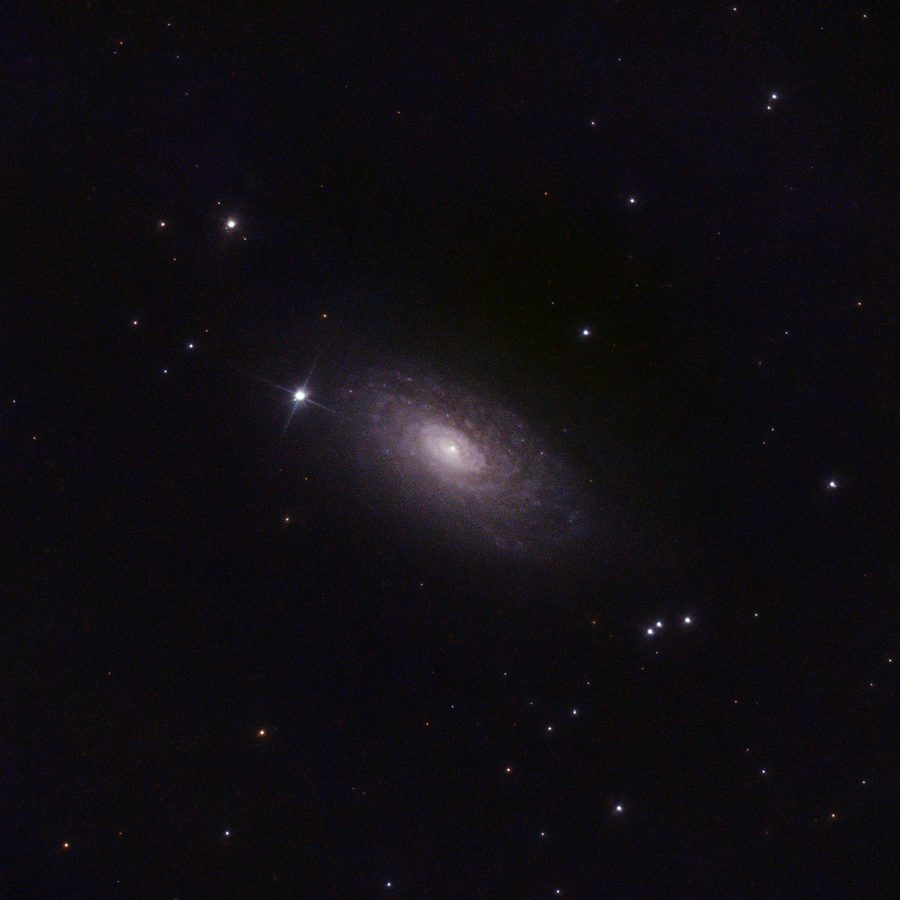
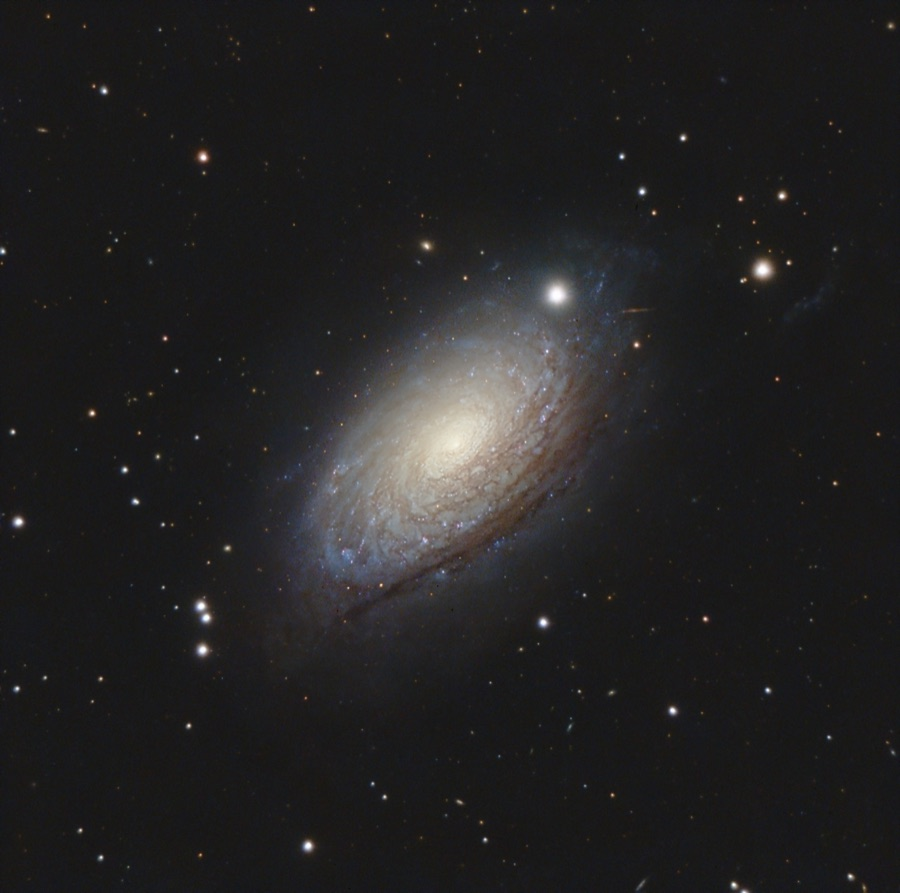
Update astrophotography gallery

diff --git a/astro.html b/astro.html
@@ -473,6 +473,22 @@ Constellation: Canes Venatici`,
   },
 
   {
+    title: "Splinter Galaxy: NGC5906/NGC5907",
+    category: "Galaxy",
+    src: "./astro/NGC5906 - Splinter Galaxy.jpg",
+    details: `Date: 06/11/2026 - 06/13/2026
+Gain: 101
+Offset: 50
+Subs: 180s
+Scope: Celestron C8
+Filter: None
+Distance: 50 Mly
+Constellation: Draco`,
+    date: "2026-06-11",
+    rank: 30
+  },
+
+  {
     title: "Silver Silver Galaxy: NGC891",
     category: "Galaxy",
     src: "./astro/NGC891 - Silver Silver Galaxy.jpg",
@@ -630,6 +646,38 @@ Distance: 1,500 ly
 Constellation: Auriga`,
     date: "2024-01-04",
     rank: 16
+  },
+
+  {
+    title: "Tulip Nebula: LBN168",
+    category: "Emission Nebula",
+    src: "./astro/LBN168 - Tulip Nebula.jpg",
+    details: `Date: 06/25/2026
+Gain: 101
+Offset: 50
+Subs: 186x180
+Scope: Celestron C8
+Filter: L-Ultimate
+Distance: 6,000 ly
+Constellation: Cygnus`,
+    date: "2026-06-25",
+    rank: 31
+  },
+
+  {
+    title: "NGC6823 and Sh2-86",
+    category: "Emission Nebula",
+    src: "./astro/NGC6823 and Sh2-86.jpg",
+    details: `Date: 07/03/2026
+Gain: 101
+Offset: 50
+Subs: 112x180
+Scope: Celestron C8
+Filter: L-Ultimate
+Distance: 6,000 ly
+Constellation: Vulpecula`,
+    date: "2026-07-03",
+    rank: 32
   },
 
   {
@@ -809,6 +857,38 @@ Constellation: Taurus`,
   },
 
   {
+    title: "Ring Nebula: M57",
+    category: "Planetary Nebula",
+    src: "./astro/M57 - Ring Nebula.jpg",
+    details: `Date: 06/26/2026 - 06/29/2026
+Gain: 101
+Offset: 50
+Subs: 231x180
+Scope: Celestron C8
+Filter: None
+Distance: 2,000 ly
+Constellation: Lyra`,
+    date: "2026-06-26",
+    rank: 33
+  },
+
+  {
+    title: "Dumbbell Nebula: M27",
+    category: "Planetary Nebula",
+    src: "./astro/M27 - Dumbbell Nebula.jpg",
+    details: `Date: 06/30/2026 - 07/02/2026
+Gain: 101
+Offset: 50
+Subs: 209x180
+Scope: Celestron C8
+Filter: L-Ultimate
+Distance: 1,240 ly
+Constellation: Vulpecula`,
+    date: "2026-06-30",
+    rank: 34
+  },
+
+  {
     title: "Milky Way (WF)",
     category: "Wide-field",
     src: "./astro/WF - Milky Way (08:25:25 - Sequoia).jpg",
@@ -853,6 +933,7 @@ Lens: 14mm Rokinon`,
     const categoryOrder = [
       "Emission Nebula",
       "Reflection Nebula",
+      "Planetary Nebula",
       "Galaxy",
       "Galaxy Cluster",
       "Globular Cluster",
